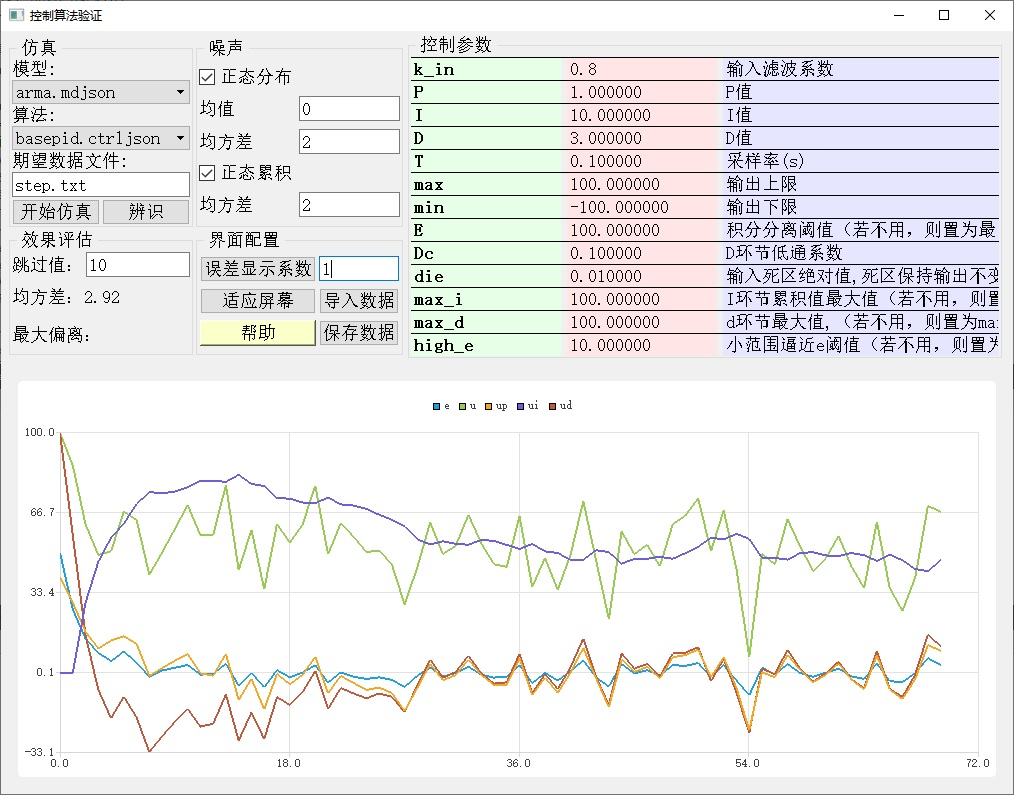
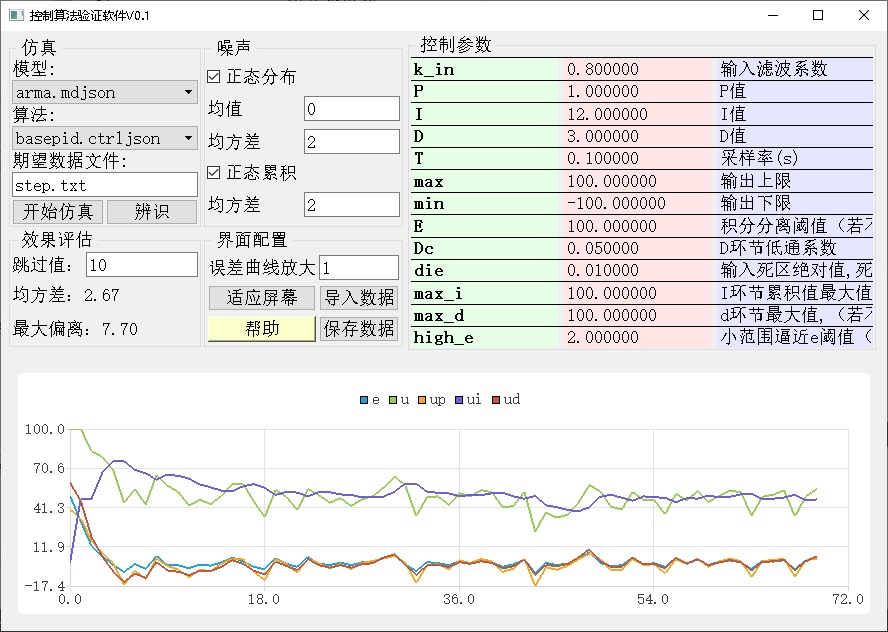
更新文档，加入最大偏离评估

diff --git a/pidsim/mainwindow.cpp b/pidsim/mainwindow.cpp
@@ -115,6 +115,7 @@ void MainWindow::on_bt_sim_clicked() //开始仿真
 	Json::Value dict_cfg; //从dict控件中取得的cfg
 	pdict->getData(dict_cfg);
 	u8 curv_n=2; //总曲线数
+	float e_curv_amp=ui->le_e_amp->text().toFloat();
 //调用运行函数
 	sim_proc(expdatafilename,fp_model,fp_ctrl,dict_cfg,
 		[this,&curv_n](Json::Value &v) //设置曲线
@@ -143,17 +144,99 @@ void MainWindow::on_bt_sim_clicked() //开始仿真
 			chart0->createDefaultAxes();
 			return curv_n;
 		},
-		[this](u8 series_n,int x,float y) //曲线设置函数
+		[this,&e_curv_amp](u8 series_n,int x,float y) //曲线设置函数
 		{
 			if(series_n>=chart0->series().size()) return ;
+			if(series_n==0) y*=e_curv_amp;
 			((QLineSeries*)chart0->series()[series_n])->append(x,y);
 		}
 	);
 	on_bt_fitscreen_clicked();
 	//评估值
 	ui->lb_eval_std->setText(sFormat("均方差：%.2f",eval_std).c_str());
+	ui->lb_eval_max_e->setText(sFormat("最大偏离：%.2f",eval_max_err).c_str());
 }
-
+void MainWindow::on_bt_recognize_clicked() //系统辨识
+{//取得模型
+	CFilePath fp_model;
+	fp_model=ui->cb_model->currentText().toStdString();
+	auto pmodel=sp_md[fp_model.name_ext];
+	if(pmodel->recname=="")
+	{
+		string s=sFormat("模型:%s 无辨识函数",pmodel->id.c_str());
+		QMessageBox::information(this,"error", s.c_str(), QMessageBox::Yes);
+	}
+	//打开辨识输入数据,第一列输入，第二列输出
+	auto name=QFileDialog::getOpenFileName(0,"","","csv文件(*.csv)");
+	if(name=="") return ;
+	string text=read_textfile(name.toStdString().c_str());
+	vector<string> vs=com_split(text,"\n");
+	if(vs.size()<2) return ;
+	vector<string> line;
+	vector<float> ulist; //输入列表
+	vector<float> ylist; //输出列表;
+	for(int i=0;i<vs.size();i++) //每一行
+	{
+		line=com_split(vs[i],",");
+		if(line.size()<2) continue;
+		float u=0,y=0;
+		sscanf(line[0].c_str(),"%f",&u);
+		sscanf(line[1].c_str(),"%f",&y);
+		ulist.push_back(u);
+		ylist.push_back(y);
+	}
+	//设置参数,清除状态
+	Json::Value rstv;
+	Json::StyledWriter writer;
+	string s;
+	rstv[pmodel->funname]="set_cfg";
+	rstv["cfg"]=pmodel->cfg;
+	s=writer.write(rstv);
+	pmodel->cmd_fun(s.c_str());
+	//传入辨识函数，开始辨识
+	float r=pmodel->rec_fun(&(ulist[0]),&(ylist[0]),ulist.size());
+	s=sFormat("辨识结果：%.2f，是否保存",r);
+	auto qr=QMessageBox::information(this,"是否保存", s.c_str(), QMessageBox::Yes | QMessageBox::No);
+	if(qr==QMessageBox::No) return ;
+	//若要保存
+	//获取参数
+	rstv.clear();
+	rstv[pmodel->funname]="get_cfg";
+	s=writer.write(rstv);
+	s=pmodel->cmd_fun(s.c_str());
+	Json::Value cfg;
+	Json::Reader reader;
+	reader.parse(s,cfg);
+	rstv=pmodel->toJson();
+	rstv["cfg"]=cfg;
+	//询问保存文件名
+	bool ok = FALSE;
+	QString qtext = QInputDialog::getText(this,tr("保存路径"),tr("请输入文件名:"),QLineEdit::Normal,"",&ok);
+	if(ok && !qtext.isEmpty())
+	{
+		s=qtext.toStdString()+".mdjson";
+		if(s==pmodel->id) //若与之前相等，则提示
+		{
+			QMessageBox::information(this,"error", "文件名与现有模型重复", QMessageBox::Yes);
+			return ;
+		}
+		s=CSysModel::dirname+"/"+s; //文件名
+		CComFile cf;
+		cf.open(s.c_str(),"w");
+		s=writer.write(rstv);
+		cf.write((void*)s.c_str(),s.size());
+		cf.close();
+		//重新加载模型部分
+		extern vector<string> list_dir(const char *path,const char *filter); //列出目录中指定文件
+		vector<string> files=list_dir(CSysModel::dirname.c_str(),"*.mdjson");
+		model_ini(files);
+		ui->cb_model->clear();
+		for(auto &it:sp_md) //控制算法列表
+		{
+			ui->cb_model->addItem(it.first.c_str());
+		}
+	}
+}
 void MainWindow::on_bt_import_data_clicked() //导入数据
 {
 	auto name=QFileDialog::getOpenFileName(0,"","","csv文件(*.csv)");
@@ -238,86 +321,5 @@ void MainWindow::on_bt_help_clicked() //帮助
 	widget_help->setMinimumHeight(500);
 	widget_help->setHtml(nText.c_str());
 	widget_help->show();
-}
-void MainWindow::on_bt_recognize_clicked() //系统辨识
-{//取得模型
-	CFilePath fp_model;
-	fp_model=ui->cb_model->currentText().toStdString();
-	auto pmodel=sp_md[fp_model.name_ext];
-	if(pmodel->recname=="")
-	{
-		string s=sFormat("模型:%s 无辨识函数",pmodel->id.c_str());
-		QMessageBox::information(this,"error", s.c_str(), QMessageBox::Yes);
-	}
-	//打开辨识输入数据,第一列输入，第二列输出
-	auto name=QFileDialog::getOpenFileName(0,"","","csv文件(*.csv)");
-	if(name=="") return ;
-	string text=read_textfile(name.toStdString().c_str());
-	vector<string> vs=com_split(text,"\n");
-	if(vs.size()<2) return ;
-	vector<string> line;
-	vector<float> ulist; //输入列表
-	vector<float> ylist; //输出列表;
-	for(int i=0;i<vs.size();i++) //每一行
-	{
-		line=com_split(vs[i],",");
-		if(line.size()<2) continue;
-		float u=0,y=0;
-		sscanf(line[0].c_str(),"%f",&u);
-		sscanf(line[1].c_str(),"%f",&y);
-		ulist.push_back(u);
-		ylist.push_back(y);
-	}
-	//设置参数,清除状态
-	Json::Value rstv;
-	Json::StyledWriter writer;
-	string s;
-	rstv[pmodel->funname]="set_cfg";
-	rstv["cfg"]=pmodel->cfg;
-	s=writer.write(rstv);
-	pmodel->cmd_fun(s.c_str());
-	//传入辨识函数，开始辨识
-	float r=pmodel->rec_fun(&(ulist[0]),&(ylist[0]),ulist.size());
-	s=sFormat("辨识结果：%.2f，是否保存",r);
-	auto qr=QMessageBox::information(this,"是否保存", s.c_str(), QMessageBox::Yes | QMessageBox::No);
-	if(qr==QMessageBox::No) return ;
-	//若要保存
-	//获取参数
-	rstv.clear();
-	rstv[pmodel->funname]="get_cfg";
-	s=writer.write(rstv);
-	s=pmodel->cmd_fun(s.c_str());
-	Json::Value cfg;
-	Json::Reader reader;
-	reader.parse(s,cfg);
-	rstv=pmodel->toJson();
-	rstv["cfg"]=cfg;
-	//询问保存文件名
-	bool ok = FALSE;
-	QString qtext = QInputDialog::getText(this,tr("保存路径"),tr("请输入文件名:"),QLineEdit::Normal,"",&ok);
-	if(ok && !qtext.isEmpty())
-	{
-		s=qtext.toStdString()+".mdjson";
-		if(s==pmodel->id) //若与之前相等，则提示
-		{
-			QMessageBox::information(this,"error", "文件名与现有模型重复", QMessageBox::Yes);
-			return ;
-		}
-		s=CSysModel::dirname+"/"+s; //文件名
-		CComFile cf;
-		cf.open(s.c_str(),"w");
-		s=writer.write(rstv);
-		cf.write((void*)s.c_str(),s.size());
-		cf.close();
-		//重新加载模型部分
-		extern vector<string> list_dir(const char *path,const char *filter); //列出目录中指定文件
-		vector<string> files=list_dir(CSysModel::dirname.c_str(),"*.mdjson");
-		model_ini(files);
-		ui->cb_model->clear();
-		for(auto &it:sp_md) //控制算法列表
-		{
-			ui->cb_model->addItem(it.first.c_str());
-		}
-	}
 }
 

diff --git a/pidsim/appflow.cpp b/pidsim/appflow.cpp
@@ -37,7 +37,8 @@ float nnorm_mean=0; //均值
 float nnorm_std=1; //均方差
 int en_noise_acc=1; //累积正太分布噪声
 float nacc_std=1; //均方差
-float eval_std=0; //评估效果
+float eval_std=0; //评估效果:标准差
+float eval_max_err=0; //评估效果:最大偏离
 int eval_jump_n=10; //评估跳过值
 //流程函数
 void sim_proc(string expdatafilename, //期望数据文件名
@@ -115,12 +116,22 @@ void sim_proc(string expdatafilename, //期望数据文件名
 	default_random_engine rand_e(time(0));
 	normal_distribution<> rand_norm(nnorm_mean,nnorm_std); //均值、标准差
 	normal_distribution<> rand_acc(0,nacc_std); //均值、标准差
-	for(int i=0;i<expdata.size();i++)
+	eval_max_err=0;
+	for(int i=0;i<expdata.size();i++) //遍历每一个输入激励
 	{
 	//控制函数
 		u=pctrl->fun(expdata[i],y); 
 	//评估效果
-		if(i>=eval_jump_n) eval_std+=(expdata[i]-y)*(expdata[i]-y);
+		if(i>=eval_jump_n) //若需要做效果评估
+		{
+			float tf=expdata[i]-y;
+			eval_std+=tf*tf;
+			tf=fabs(tf);
+			if(tf>eval_max_err)
+			{
+				eval_max_err=tf;
+			}
+		}
 	//曲线操作
 		double d=expdata[i]-y;
 		//printf("%.2f %.2f\n",u,d);

diff --git a/pidsim/appflow.h b/pidsim/appflow.h
@@ -123,6 +123,7 @@ extern float nnorm_std; //均方差
 extern int en_noise_acc; //累积正太分布噪声
 extern float nacc_std; //均方差
 extern float eval_std; //评估效果
+extern float eval_max_err; //评估效果:最大偏离
 void sim_proc(string expdatafilename, //期望数据文件名
 				CFilePath fp_model, //模型文件名
 				CFilePath fp_ctrl, //控制文件名
